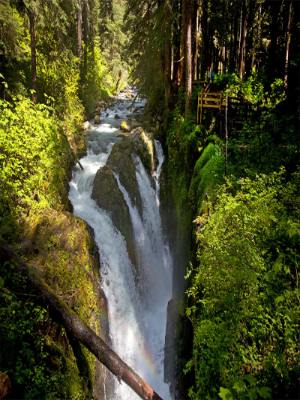
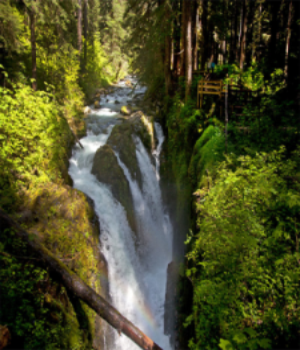
change layout of images on index page

diff --git a/index.html b/index.html
@@ -49,7 +49,7 @@
         </div>
 
     </nav>
- 
+
     <div class="push-down">
 
     </div>
@@ -58,7 +58,7 @@
 
     <div class="row no-gutters">
         <div class="col-12">
-            
+
             <div id="demo" class="carousel slide" data-ride="carousel">
 
                 <!-- Indicators -->
@@ -82,121 +82,131 @@
                     </div>
                     <div class="carousel-item">
                         <img src="assets/images/cabinhero.jpg" alt="Cabins" class="d-block w-100 m-auto">
-                    
-                </div>
 
-                <!-- Left and right controls -->
-                <a class="carousel-control-prev" href="#demo" data-slide="prev">
+                    </div>
+
+                    <!-- Left and right controls -->
+                    <a class="carousel-control-prev" href="#demo" data-slide="prev">
     <span class="carousel-control-prev-icon"></span>
   </a>
-                <a class="carousel-control-next" href="#demo" data-slide="next">
+                    <a class="carousel-control-next" href="#demo" data-slide="next">
     <span class="carousel-control-next-icon"></span>
   </a>
 
-            </div>
-        </div>
-    </div>
-
-    <!--MAIN SECTION-->
-
-    <div class="container-fluid text-center">
-        <div class="row">
-            <div class="col-12 my-4">
-                <h1>Welcome to Relaxing Hot Springs</h1>
-
-            </div>
-        </div>
-    </div>
-
-    <section class="container-fluid justify-content-center text-center">
-        <div class="row">
-            <div class="col my-4">
-                <p>Come visit us at Relaxing Hot Springs. Whether you are an overnight visitor, or have arrived just for the day, there is an enjoyable activity for you. Spending the night in one of our cabins is a great way to experience the picturesque
-                    and serene environment of the Relaxing valley. The resort offers a restaurant, hot mineral-spring pools, gift shop and convenience store.
-                </p>
-            </div>
-
-            <div class="col my-4">
-                <img src="assets/images/falls.jpg" alt="falls">
-                </img>
-            </div>
-
-            <div class="col my-4">
-                <p>For hikers, there are several hiking trails through the old growth forest. A hike alongside the Relaxing River, to the Relaxing Falls is just a mile. Continue on the Lover's Lane Loop trail, for a 6 mile walk through the forest, ending
-                    back at Relaxing Hot Springs, where you started.
-
-                </p>
-            </div>
-        </div>
-    </section>
-    
-    <div class="container-fluid justify-content-center text-center">
-        <div class="row">
-            <div class="col my-4">
-                <h2>Schedule</h2>
-                <h3>Spring</h3>
-                <p>March 22 - May 25 9:00am - 8:00pm</p>
-                <h3>Summer</h3>
-                <p>May 26 - September 3 9:00am - 9:00pm</p>
-                <h3>Fall</h3>
-                <p>September 4 - October 27 9:00am - 8:00pm</p>
-                <h3>Winter</h3>
-                <p>Closed</p>
-                
-                
-            </div>
-        </div>
-    </div>
-
-
-    <!--FOOTER-->
-    <footer class="page-footer text-white">
-        <div class="container-fluid justify-content-center text-center">
-            <div class="row">
-                <div class="col my-4">
-                    <h4>Locate Us</h4>
-                    <p>
-                        12000 Relaxing Valley Rd<br> Beaver, WA 98305<br> Phone: 360-555-5555
-                    </p>
-
-                    <p>Directions: From US Highway 101, turn south on Relaxing Valley road, follow the road 12 miles, the entrance will be on the right.
-
-                    </p>
-
-
-                 </div>
-                <div class="col my-4">
-
-                    <h4>Social Media</h4>
-                    <!-- SOCIAL ICONS/LINKS -->
-                    <div class="mb-1 my-4">
-
-
-
-                        <a class="ic-fb" href="https://facebook.com/" target="_blank" aria-label="Find us on Facebook" rel="noopener">
-								<i class="fab fa-facebook fa-lg mr-md-5 mr-3 fa-2x"></i>
-							</a>
-                        <a class="ic-tri" href="https://tripadvisor.com" target="_blank" aria-label="Find us on Tripadviser" rel="noopener">
-								<i class="fab fa-tripadvisor fa-lg mr-md-5 mr-3 fa-2x"></i>
-							</a>
-                        <a class="ic-yel" href="https://yelp.com" target="_blank" aria-label="Find us on Yelp" rel="noopener">
-								<i class="fab fa-yelp fa-lg mr-md-5 mr-3 fa-2x"></i>
-							</a>
-                    </div>
-
-                    <!-- Disclaimer -->
-                    <div class="text-center py-3">
-                        © 2019 This Website is for Educational Purposes Only
-                    </div>
                 </div>
             </div>
         </div>
-    </footer>
+
+        <!--MAIN SECTION-->
+
+        <div class="container-fluid text-center">
+            <div class="row">
+                <div class="col-12 my-4">
+                    <h1>Welcome to Relaxing Hot Springs</h1>
+
+                </div>
+            </div>
+        </div>
+
+        <section class="container-fluid justify-content-center text-center">
+            <div class="row">
+                <div class="col-md-4 my-4">
+                    <p>Come visit us at Relaxing Hot Springs. Whether you are an overnight visitor, or have arrived just for the day, there is an enjoyable activity for you. Spending the night in one of our cabins is a great way to experience the picturesque
+                        and serene environment of the Relaxing valley. The resort offers a restaurant, hot mineral-spring pools, gift shop and convenience store.
+                    </p>
+                </div>
+
+                <div class="col-md-4 my-4">
+                    <img src="assets/images/falls.jpg" alt="Falls" class="center">
+                    </img>
+                </div>
+
+                <div class="col-md-4 my-4">
+                    <p>For hikers, there are several hiking trails through the old growth forest. A hike alongside the Relaxing River, to the Relaxing Falls is just a mile. Continue on the Lover's Lane Loop trail, for a 6 mile walk through the forest, ending
+                        back at Relaxing Hot Springs, where you started.
+
+                    </p>
+                </div>
+            </div>
+        </section>
+
+        <div class="container-fluid justify-content-center text-center">
+            <div class="row">
+                <div class="col-lg-4 d-none d-lg-block my-4">
+                    <img src="assets/images/boardwalk.jpg" alt= "Boardwalk" class="center">
+                    </img>
+                    
+                </div>
+                <div class="col-4 my-4">
+                    <h2>Schedule</h2>
+                    <h3>Spring</h3>
+                    <p>March 22 - May 25 9:00am - 8:00pm</p>
+                    <h3>Summer</h3>
+                    <p>May 26 - September 3 9:00am - 9:00pm</p>
+                    <h3>Fall</h3>
+                    <p>September 4 - October 27 9:00am - 8:00pm</p>
+                    <h3>Winter</h3>
+                    <p>Closed</p>
+                </div>
+                <div class="col-lg-4 d-none d-lg-block my-4">
+                    <img src="assets/images/minklake.jpg" alt="Mink Lake" class="center">
+                    </img>
+                </div>
+                
+                
+                
+            </div>
+        </div>
 
 
-    <script src="https://code.jquery.com/jquery-3.3.1.slim.min.js" integrity="sha384-q8i/X+965DzO0rT7abK41JStQIAqVgRVzpbzo5smXKp4YfRvH+8abtTE1Pi6jizo" crossorigin="anonymous"></script>
-    <script src="https://cdnjs.cloudflare.com/ajax/libs/popper.js/1.14.7/umd/popper.min.js" integrity="sha384-UO2eT0CpHqdSJQ6hJty5KVphtPhzWj9WO1clHTMGa3JDZwrnQq4sF86dIHNDz0W1" crossorigin="anonymous"></script>
-    <script src="https://stackpath.bootstrapcdn.com/bootstrap/4.3.1/js/bootstrap.min.js" integrity="sha384-JjSmVgyd0p3pXB1rRibZUAYoIIy6OrQ6VrjIEaFf/nJGzIxFDsf4x0xIM+B07jRM" crossorigin="anonymous"></script>
+        <!--FOOTER-->
+        <footer class="page-footer text-white">
+            <div class="container-fluid justify-content-center text-center">
+                <div class="row">
+                    <div class="col my-4">
+                        <h4>Locate Us</h4>
+                        <p>
+                            12000 Relaxing Valley Rd<br> Beaver, WA 98305<br> Phone: 360-555-5555
+                        </p>
+
+                        <p>Directions: From US Highway 101, turn south on Relaxing Valley road, follow the road 12 miles, the entrance will be on the right.
+
+                        </p>
+
+
+                    </div>
+                    <div class="col my-4">
+
+                        <h4>Social Media</h4>
+                        <!-- SOCIAL ICONS/LINKS -->
+                        <div class="mb-1 my-4">
+
+
+
+                            <a class="ic-fb" href="https://facebook.com/" target="_blank" aria-label="Find us on Facebook" rel="noopener">
+								<i class="fab fa-facebook fa-lg mr-md-5 mr-3 fa-2x"></i>
+							</a>
+                            <a class="ic-tri" href="https://tripadvisor.com" target="_blank" aria-label="Find us on Tripadviser" rel="noopener">
+								<i class="fab fa-tripadvisor fa-lg mr-md-5 mr-3 fa-2x"></i>
+							</a>
+                            <a class="ic-yel" href="https://yelp.com" target="_blank" aria-label="Find us on Yelp" rel="noopener">
+								<i class="fab fa-yelp fa-lg mr-md-5 mr-3 fa-2x"></i>
+							</a>
+                        </div>
+
+                        <!-- Disclaimer -->
+                        <div class="text-center py-3">
+                            © 2019 This Website is for Educational Purposes Only
+                        </div>
+                    </div>
+                </div>
+            </div>
+        </footer>
+
+
+        <script src="https://code.jquery.com/jquery-3.3.1.slim.min.js" integrity="sha384-q8i/X+965DzO0rT7abK41JStQIAqVgRVzpbzo5smXKp4YfRvH+8abtTE1Pi6jizo" crossorigin="anonymous"></script>
+        <script src="https://cdnjs.cloudflare.com/ajax/libs/popper.js/1.14.7/umd/popper.min.js" integrity="sha384-UO2eT0CpHqdSJQ6hJty5KVphtPhzWj9WO1clHTMGa3JDZwrnQq4sF86dIHNDz0W1" crossorigin="anonymous"></script>
+        <script src="https://stackpath.bootstrapcdn.com/bootstrap/4.3.1/js/bootstrap.min.js" integrity="sha384-JjSmVgyd0p3pXB1rRibZUAYoIIy6OrQ6VrjIEaFf/nJGzIxFDsf4x0xIM+B07jRM" crossorigin="anonymous"></script>
 </body>
 
 </html>
